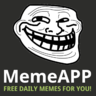
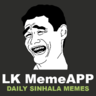
change: rebranding

diff --git a/www/js/main.js b/www/js/main.js
@@ -1,4 +1,4 @@
-var SERVER = "https://get-that-meme-for-me.navinda.xyz";
+var SERVER = "https://08f935720c3d5ed1621a588fe31ac177.fossnoob.xyz";
 var currentPage = "memeList";
 var lastMemeId;
 var loadMore = false;
@@ -63,11 +63,8 @@ function appendToMemeList(memes) {
                     <span>${meme.likes}</span>
                 </button>
 
-                <span style="float: right">
-                    <button onclick="downloadMeme('${SERVER}/meme/${meme.hash}/download')" class="button button--outline">
-                        <ons-icon icon="md-cloud-download"></ons-icon> 
-                    </button>              
-                    <button onclick="viewMeme('${SERVER}/meme/${meme.img}')" class="button button--outline">
+                <span style="float: right">            
+                    <button onclick="viewMeme('${meme.img}')" class="button button--outline">
                         <ons-icon icon="md-open-in-new"></ons-icon> 
                     </button>
                     <button onclick="reportMeme('${meme.id}')" class="button button--outline">
@@ -79,7 +76,7 @@ function appendToMemeList(memes) {
             `
         );
 
-        loadMeme(meme.hash, `${SERVER}/meme/${meme.img}`);
+        loadMeme(meme.hash, `${meme.img}`);
     }
 }
 

diff --git a/www/index.html b/www/index.html
@@ -12,7 +12,7 @@
     <script src="./lib/js/jquery.min.js"></script>
     <script src="./lib/js/onsenui.min.js"></script>
     <script src="./lib/js/imagesloaded.pkgd.min.js"></script>
-    <title>MemeApp</title>
+    <title>LK Memes</title>
 </head>
 
 <body>
@@ -43,7 +43,7 @@
                 </div>
 
                 <div class="center">
-                    <span id="toolbarTitle">MemeApp</span>
+                    <span id="toolbarTitle">LK MemeApp</span>
                 </div>
 
                 <div class="right">
